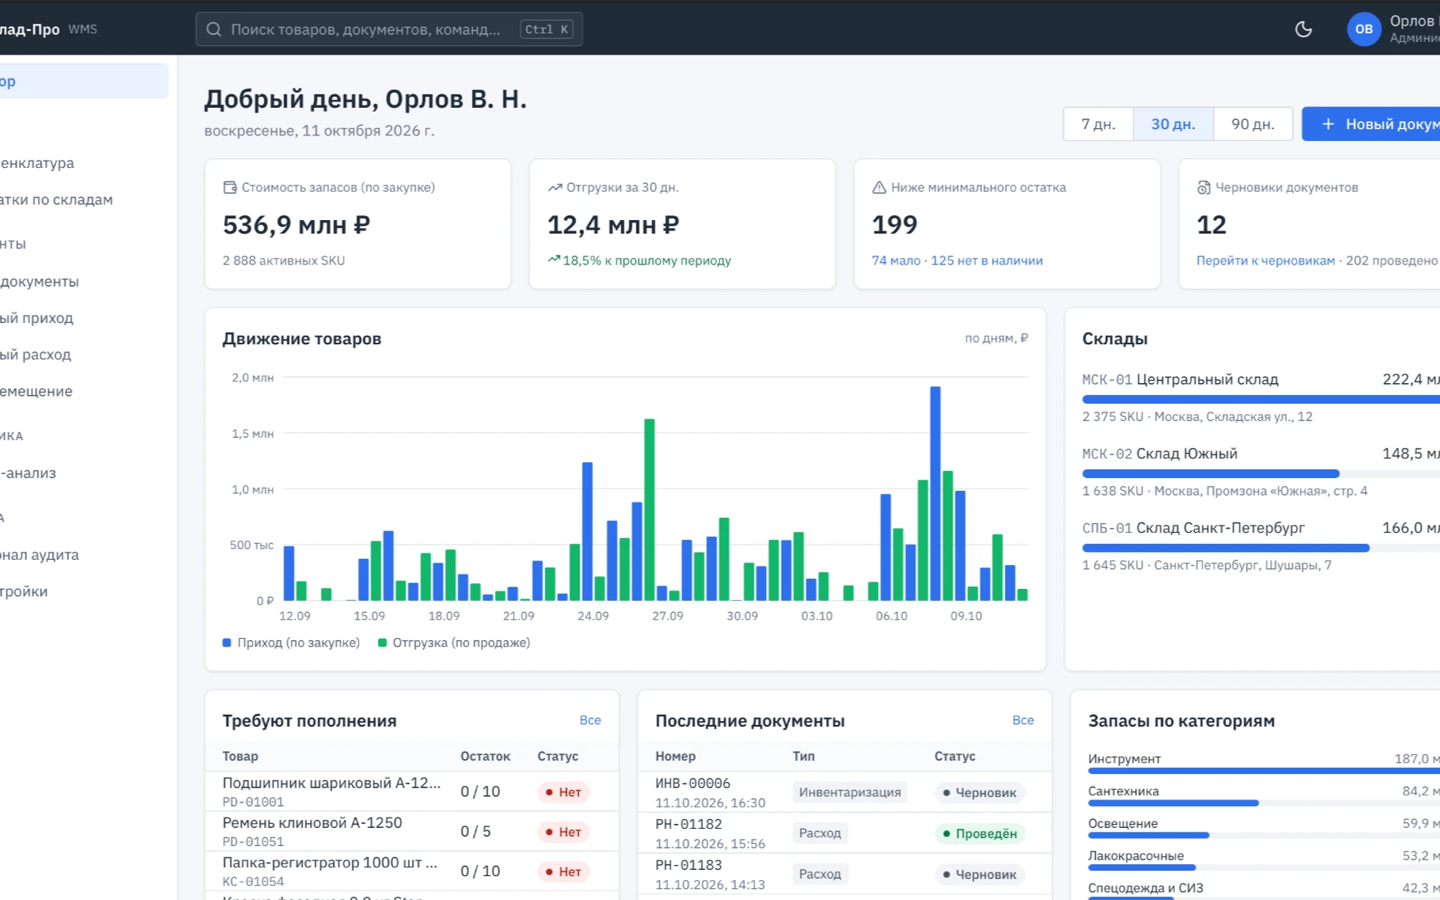
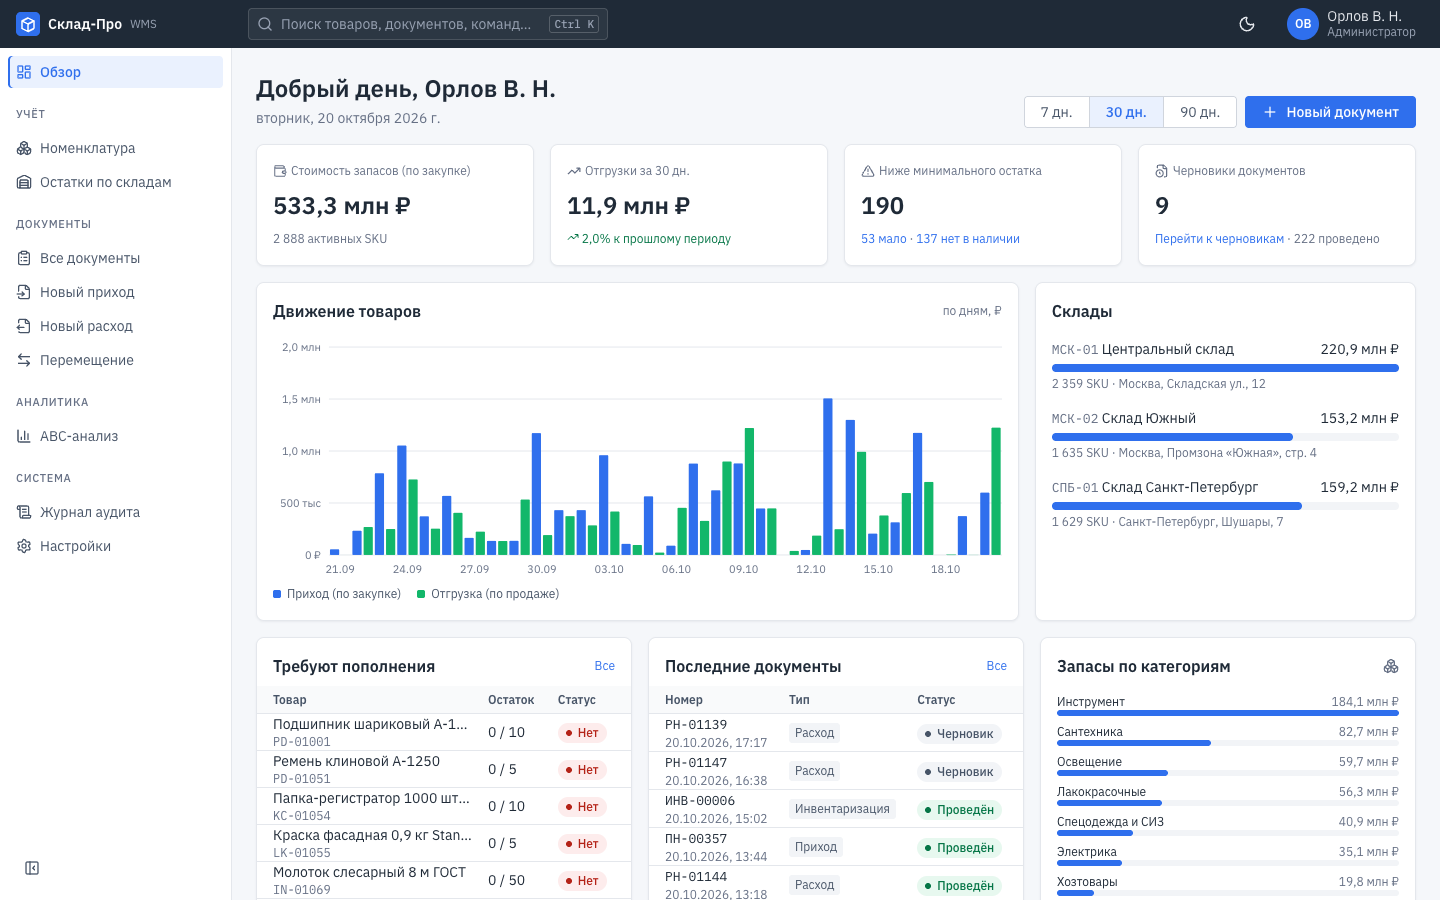
Новый скриншот Склад-Про, версия у скриншотов карточек

diff --git a/script.js b/script.js
@@ -81,7 +81,7 @@ const grid = document.getElementById('grid');
 grid.innerHTML = projects.map((p) => `
   <article class="card">
     <button class="shot" data-open="${p.id}" aria-label="Посмотреть сайт ${p.title}">
-      <img src="shots/${p.id}.png" alt="Главная страница сайта ${p.title}" loading="lazy">
+      <img src="shots/${p.id}.png?v=2" alt="Главная страница сайта ${p.title}" loading="lazy">
     </button>
     <div class="card-body">
       <div class="card-top"><h3>${p.title}</h3><span class="kind">${p.kind}</span></div>

diff --git a/index.html b/index.html
@@ -85,6 +85,6 @@
   <div class="viewer-stage"><iframe id="viewer-frame" title="Просмотр проекта"></iframe></div>
 </dialog>
 
-<script src="script.js?v=7"></script>
+<script src="script.js?v=8"></script>
 </body>
 </html>
